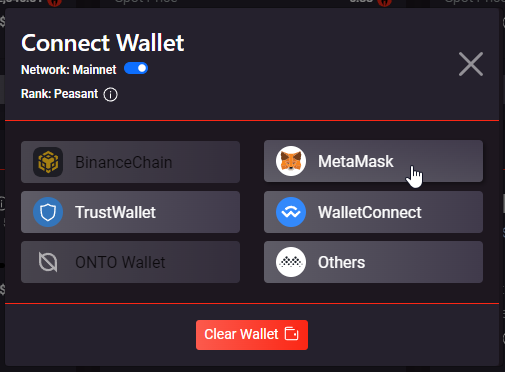
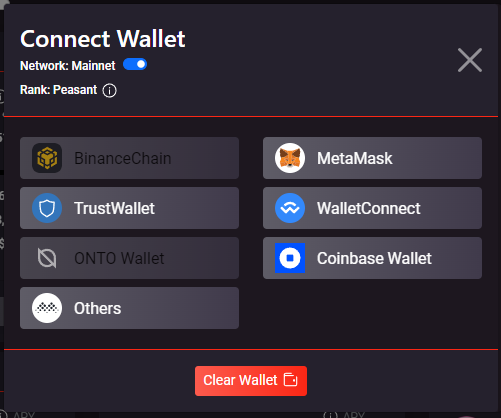
Update wallet select image + spelling
- Updated wallet select image with coinbase option
- Skim-fixed some spelling on each page

diff --git a/docs/dao.md b/docs/dao.md
@@ -18,7 +18,7 @@ The Spartan DAO can do _ALOT._ Its definitely the most expansive on-chain DAO ma
 
 Anyone can create a DAO proposal at any time, as long as no other DAO proposal is currently active. The proposer simply has to visit the DAO and click a few buttons to select their proposal type and parameters. They will then have to confirm a transaction to initialise the proposal on-chain.
 
-Some gas and a 'new proposal fee' will require payment by the proposer. This fee doesn't go to any middleman, its intention is not rent-seeking, it goes to the reserve which is where all non-owned SPARTA sits waiting to be released via incentives to good peers in the ecosystem. The main reason for this fee is to help resist spamming / greifing and also to ensure the Spartan is sure about this proposal before confirming it. All proposers should seek general consensus from the community on a proposal _prior_ to creating the proposal on-chain, otherwise they will likely have trouble reaching consensus on-chain within the required time period.
+Some gas and a 'new proposal fee' will require payment by the proposer. This fee doesn't go to any middleman, its intention is not rent-seeking, it goes to the reserve which is where all non-owned SPARTA sits waiting to be released via incentives to good peers in the ecosystem. The main reason for this fee is to help resist spamming / griefing and also to ensure the Spartan is sure about this proposal before confirming it. All proposers should seek general consensus from the community on a proposal _prior_ to creating the proposal on-chain, otherwise they will likely have trouble reaching consensus on-chain within the required time period.
 
 Some more info on the different proposal types in the next section:
 
@@ -40,7 +40,7 @@ Realising the premium of a pool involves working out how much the existing synth
 
 > ℹ. `ADD_CURATED_POOL` Requires: 66.66% Consensus
 
-Adding a pool to the 'Curated' list enables extra features and incentives ontop of the pool as explained in the [liquidity section](/liquidity-pools?id=curated-pools) of the documenation. As this is an important decision involving value extraction functions, a majority (66.66%) consensus is required for it to pass.
+Adding a pool to the 'Curated' list enables extra features and incentives on top of the pool as explained in the [liquidity section](/liquidity-pools?id=curated-pools) of the documenation. As this is an important decision involving value extraction functions, a majority (66.66%) consensus is required for it to pass.
 
 ### Remove Pool from Curated
 
@@ -60,7 +60,7 @@ Here we can regulate the claim percentage of the Reserve that the SynthVault can
 
 Here we can regulate the claim percentage of the Reserve that the DaoVault can begin 'harvest' calculations off. If increased; the harvest rewards will be larger. If decreased they will be lower. This proposal has a hard-coded max input of 1500 basis points and a minimum of 0 basis points (which would effectively turn off harvest rewards)
 
-### Change DAO Proposal Cooloff
+### Change DAO Proposal Cool off
 
 > ℹ. `COOL_OFF` Requires: 50% Consensus
 
@@ -78,7 +78,7 @@ Whilst the contributors have always remained active, the community may decide th
 
 The community can vote through a grant which would allow financial incentives and reward to those involved with any new developments that the community may call for.
 
-This proposal-type has already been testing in the wild with V2 to provide a small grant for marketing purposes thru the last 2021 -> early 2022 months, funding a number of partnerships and opportunities that were preiously un-obtainable due to the 'no treasury' aspect of the project.
+This proposal-type has already been testing in the wild with V2 to provide a small grant for marketing purposes thru the last 2021 -> early 2022 months, funding a number of partnerships and opportunities that were previously un-obtainable due to the 'no treasury' aspect of the project.
 
 As this is an important decision involving value extraction functions, a majority (66.66%) consensus is required for it to pass.
 
@@ -94,13 +94,13 @@ A contract change will allow the contributors to be able to implement changes as
 
 > ℹ. `ROUTER` Requires: 66.66% Consensus
 
-Another contract change proposal which has to be included to ensure that Spartan Protocol is as future proof as possible. The Router contract is likely to be upgraded many times throughout the years, whether it is to cut out unused features, make existing functions more efficent (save gas) or add new features.
+Another contract change proposal which has to be included to ensure that Spartan Protocol is as future proof as possible. The Router contract is likely to be upgraded many times throughout the years, whether it is to cut out unused features, make existing functions more efficient (save gas) or add new features.
 
 ### Upgrade UTILS Contract
 
 > ℹ. `UTILS` Requires: 66.66% Consensus
 
-When V2 launched, a new feeBurn deflationary feature was implemented on every transfer of the SPARTA token. This Utils contract was designed with the intention of making it possible to disable or change that feeBurn, which is exactly what happenned in late November 2021, sending us into the next phase of SPARTA token burns where ~37% of the total supply was burned permanently out of the supply to the 0x0dead address! It is unlikely this contract will need to be changed again in the future as it mostly houses 'helper' functions, but nice to know we always can!
+When V2 launched, a new feeBurn deflationary feature was implemented on every transfer of the SPARTA token. This Utils contract was designed with the intention of making it possible to disable or change that feeBurn, which is exactly what happened in late November 2021, sending us into the next phase of SPARTA token burns where ~37% of the total supply was burned permanently out of the supply to the 0x0dead address! It is unlikely this contract will need to be changed again in the future as it mostly houses 'helper' functions, but nice to know we always can!
 
 ### Upgrade RESERVE Contract
 
@@ -112,7 +112,7 @@ The reserve contract is where the emissions are sent before being distributed to
 
 ### Bond-related Proposals (Deprecated)
 
-With the token distribution phase of the project coming to a close, alot of Bond-related proposals are no longer relevant, but live on in the DAO's proposal-history page in the DApp. These Bond proposals inluded:
+With the token distribution phase of the project coming to a close, a lot of Bond-related proposals are no longer relevant, but live on in the DAO's proposal-history page in the DApp. These Bond proposals included:
 
 - New Bond Allocation: Release a 2M SPARTA allocation available for Bonding.
 - List a Bond Asset: The Bond program was only enabled on limited assets as decided by the DAO

diff --git a/docs/staking.md b/docs/staking.md
@@ -1,12 +1,12 @@
 ## Staking
 
-Everything discussed so far might seem quite technical and different to what you consider to be DeFi. That's because _it is_ different to what most consider to be DeFi. For DeFi projects to be sustainable and last more than months or years, it has to be more than just pumping some inflationary token out to people as an incentives without those incentives actually helping bootstrap or fuel some sort of sustainable revenue. Often the approach is just for users to lock assets into a contract that does not even utilize those assets to generate any revenue. Removing tokens from the ciurculating supply is great, but it does nothing to create a sustainable, long term path forward for the protocol or any individuals.
+Everything discussed so far might seem quite technical and different to what you consider to be DeFi. That's because _it is_ different to what most consider to be DeFi. For DeFi projects to be sustainable and last more than months or years, it has to be more than just pumping some inflationary token out to people as an incentives without those incentives actually helping bootstrap or fuel some sort of sustainable revenue. Often the approach is just for users to lock assets into a contract that does not even utilize those assets to generate any revenue. Removing tokens from the circulating supply is great, but it does nothing to create a sustainable, long term path forward for the protocol or any individuals.
 
 So it should now be clear that is why it was important to discuss those revenue sources first (see [liquidity](/liquidity-pools?id=revenue-potential), [swapping](/swap?id=swapping-trading-assets) and [Synths](/synths?id=spartan-synthetic-yield-tokens)) to show you that Spartan Protocol is here for the long term, working on sustainable ways to have the pools incentivise themselves. Having said that, it is also important to bootstrap liquidity in the growth stages in a controlled and non-degen manner. That is where 'Staking' comes in. The Reserve contract holds a bunch of not-yet-circulating SPARTA and controls their distribution to pools and Spartans by the Protocol's incentive functions. By locking up staking-enabled assets within the protocol's vaults, you will be able to earn extra yield and be incentivized further to stay in the pools.
 
 ### Why Stake?
 
-Staking usually involves a user locking up a layer-one asset such as BNB or SPARTA into a smart contract to temporarily remove them from the circulating supply. The problem with this is it doesn't utlize those assets to generate revenue (unsustainable; dependent on inflation) nor does it really provide the protocol or pools with any tangible advantages. With Spartan Protocol's DeFi contracts, only the second-layer assets are able to be staked for yield or governance weight. This means that for anyone to extract incentives from the protocol, they have to show their commitment and provide utility to the ecosystem first.
+Staking usually involves a user locking up a layer-one asset such as BNB or SPARTA into a smart contract to temporarily remove them from the circulating supply. The problem with this is it doesn't utilize those assets to generate revenue (unsustainable; dependent on inflation) nor does it really provide the protocol or pools with any tangible advantages. With Spartan Protocol's DeFi contracts, only the second-layer assets are able to be staked for yield or governance weight. This means that for anyone to extract incentives from the protocol, they have to show their commitment and provide utility to the ecosystem first.
 
 ---
 
@@ -18,11 +18,11 @@ Spartans have the option to stake [Curated](/liquidity-pools?id=curated-pools) L
 
 ### SynthVault Staking
 
-By staking your Synths in the SynthVault (this happens by default when you forge a Synth) you are exposed to compounding yield in the form of the same Synth (ie. BNBs) by default. If the Synth being harvested is capped however, you will receive SPARTA to your wallet instead.
+By staking your Synths in the SynthVault (this happens by default when you forge a Synth) you are exposed to compounding yield in the form of the same Synth (i.e. BNBs) by default. If the Synth being harvested is capped however, you will receive SPARTA to your wallet instead.
 
 ### What is the BondVault?
 
-The BondVault holds the time-locked LP tokens of Spartans who participated in the Bond token distribution program. If you are one of those users, your position/s will show up here and you will be able to claim your unlocked LP tokens to your wallet which are then free for you to do with as you please (Stake in DaoVault, remove liquitity etc)
+The BondVault holds the time-locked LP tokens of Spartans who participated in the Bond token distribution program. If you are one of those users, your position/s will show up here and you will be able to claim your unlocked LP tokens to your wallet which are then free for you to do with as you please (Stake in DaoVault, remove liquidity etc)
 
 The Bond program was retired when the SPARTA token distribution phase was ended and remaining distribution (~37% of the supply at the time) was burned to the 0x0dead address permanently.
 

diff --git a/docs/liquidity-pools.md b/docs/liquidity-pools.md
@@ -18,7 +18,7 @@ This presents a 'risk' of course, for instance, the number of units you put in i
 
 ### Curated Pools
 
-Spartan Protocol pools have a special status reserved for the most active pools called 'Curated'. The community DAO decides which pools are added or removed from the Curated list using the on-chain DAO functionality. If a pool is Curated, it is enabled for a range of extra features and incentives. Curated LP tokens earn extra 'Dividends' ontop of the usual revenue and are able to also be staked in the DaoVault for extra yield and governance weight in proposals. For a Synth to be deployed/created, it must use an underlying Curated pool.
+Spartan Protocol pools have a special status reserved for the most active pools called 'Curated'. The community DAO decides which pools are added or removed from the Curated list using the on-chain DAO functionality. If a pool is Curated, it is enabled for a range of extra features and incentives. Curated LP tokens earn extra 'Dividends' on top of the usual revenue and are able to also be staked in the DaoVault for extra yield and governance weight in proposals. For a Synth to be deployed/created, it must use an underlying Curated pool.
 
 ### Dividends
 
@@ -30,7 +30,7 @@ Most important of the Curated points to discuss here is 'Dividends', which are i
 
 ### Listing / Creating a Pool
 
-Another way Spartan Protocol hands over control to its users is through its open listing policy. Literally anyone is free to permissionlessly list any standard BEP20 token any time they like by clicking a few buttons and providing the initial liquidity. You don't need permission from any devs or the token's project team or CZ 😂 if you want a pool, you are free to go ahead and create it.
+Another way Spartan Protocol hands over control to its users is through its open listing policy. Literally anyone is free to list any standard BEP20 token any time they like without needing permission from anyone by clicking a few buttons and providing the initial liquidity. You don't need to contact any devs or the token's project team or CZ 😂 if you want a pool, you are free to go ahead and create it.
 
 Think and plan carefully before doing so though, as a general rule, pools become an efficient swap option at a minimum of ~$100,000 in liquidity. Ideally, all pools should aim to build up more than $200,000 in liquidity so that they can have low swap fees and become a viable best-route for aggregators, therefore earning sustainable revenue to grow deeper in a feedback loop.
 
@@ -44,7 +44,7 @@ Think and plan carefully before doing so though, as a general rule, pools become
 
 ### Initializing Pools
 
-When a fresh new pool is deployed / created by someone in the community, it has a special status called 'Initializing' applied to it for 7 days. During this short period, users can add liquidity and swap permissionlessly just like any other normal pool. However, **no-one can remove liquidity** until the pool reaches the end of its 'Initializing' phase.
+When a fresh new pool is deployed / created by someone in the community, it has a special status called 'Initializing' applied to it for 7 days. During this short period, users can add liquidity and swap just like any other normal pool. However, **no-one can remove liquidity** until the pool reaches the end of its 'Initializing' phase.
 
 As soon as 7 days has passed since the pool was deployed, it instantly and automatically becomes a proper, normal, mature pool without the 'Initializing' limitations.
 
@@ -90,7 +90,7 @@ As explained earlier, providing liquidity is very different from staking in a yi
 
 Here is a general overview of how the DApp calculates the history-based APY estimations for providing liquidity to a pool:
 
-- **Revenue** = Last 30 Days (Slip fees, divis etc) in SPARTA units value
+- **Revenue** = Last 30 Days (Slip fees, dividends etc) in SPARTA units value
 - **Depth** = Current SPARTA in the pool \* 2 (The TVL in SPARTA value)
 
 With those two variables it is pretty simple:
@@ -107,7 +107,7 @@ Remember, we should never look at the APY displayed in the DApp and stop there, 
 ## Guides
 
 - [Create / List Pool _Guide Coming Soon_](/liquidity-pools?id=guides)
-- [Analyze Pools](/guides/liquidity/analyze.md)
+- [Analyse Pools](/guides/liquidity/analyze.md)
 - [Add Liquidity (Both)](/guides/liquidity/add-both.md)
 - [Add Liquidity (Single)](/guides/liquidity/add-single.md)
 - [Remove Liquidity (Both)](/guides/liquidity/remove-both.md)

diff --git a/docs/introduction.md b/docs/introduction.md
@@ -33,7 +33,7 @@ Spartan Protocol combined some new and fresh ideas with many varied and popular 
 
 ##### Liquidity Pools
 
-Spartans can provide liquidity to the pools to earn the revenue generated by the pool along with any extra dividends and incentives. Assets provided as liquidity will fluctuate with the prices of the underlying assets in the pools and you may end up with less of one asset, but more of the other as your position is balanced resulting in something similar to an automated DCA-in, DCA-out trading strategy with revenue yield ontop.
+Spartans can provide liquidity to the pools to earn the revenue generated by the pool along with any extra dividends and incentives. Assets provided as liquidity will fluctuate with the prices of the underlying assets in the pools and you may end up with less of one asset, but more of the other as your position is balanced resulting in something similar to an automated DCA-in, DCA-out trading strategy with revenue yield on top.
 
 ##### Swap / Trade
 
@@ -63,7 +63,7 @@ The SPARTA token is essential to the protocol. It acts as the settlement asset f
 
 ##### Token Distribution
 
-One of the biggest statements of Spartan Protocol is its fair launch. The community who formed the idea of the protocol was sick of the scams, rug-pulls and general degen, scummy greedy behaviour going on in the DeFi world. So they created a plan to launch the token **without all the bizzare rent seeking aspects found all over the DeFi world.** Flip the whole thing on its head, making most of the common scam behaviour not even possible with:
+One of the biggest statements of Spartan Protocol is its fair launch. The community who formed the idea of the protocol was sick of the scams, rug-pulls and general degen, scummy greedy behaviour going on in the DeFi world. So they created a plan to launch the token **without all the bizarre rent seeking aspects found all over the DeFi world.** Flip the whole thing on its head, making most of the common scam behaviour not even possible with:
 
 - No Airdrops
 - No token sale
@@ -114,4 +114,4 @@ Slip-based fees also have the lovely side-effect of acting as a security layer t
 
 The relatively tiny fees for small trades, of which are what the majority of users will trade, means that Spartan Pools become a leader on the various aggregators that have sprung up in DeFi. The huge benefit of this is that Spartan Protocol can be extremely competitive across BSC, and generate vast amounts of swap revenue without swappers ever having to visit any Spartan DApp directly.
 
-100% of fees never leave the pool they are generated in and attributed directly to the existing liquidity providers, creating circular incentives to keep the pools trending deeper. Noone is a middle-man to this revenue, the project was always built for the community rather than an individual's personal profit, and that remains the #1 goal.
+100% of fees never leave the pool they are generated in and attributed directly to the existing liquidity providers, creating circular incentives to keep the pools trending deeper. No-one is a middle-man to this revenue, the project was always built for the community rather than an individual's personal profit, and that remains the #1 goal.

diff --git a/docs/getting-started.md b/docs/getting-started.md
@@ -1,6 +1,6 @@
 ## Community
 
-Before you begin, make sure you confirm you are in the **correct community channels!** There are alot of clever scams and imposter channels/accounts out there, be careful Spartans!
+Before you begin, make sure you confirm you are in the **correct community channels!** There are a lot of clever scams and imposter channels/accounts out there, be careful Spartans!
 
 **Telegram:** https://t.me/SpartanProtocolOrg  
 **Twitter:** https://twitter.com/SpartanProtocol  
@@ -12,11 +12,11 @@ Before you begin, make sure you confirm you are in the **correct community chann
 
 ## Wallets
 
-Spartan Protocol is built ontop of BSC which is an EVM, meaning most common web3 tools from the Ethereum community are also compatible with the ecosystem by default.
+Spartan Protocol is built on top of BSC which is an EVM, meaning most common web3 tools from the Ethereum community are also compatible with the ecosystem by default.
 
 ### Choose Wallet
 
-Choosing a wallet can be a bit subjective based on your preference and devices. If you already have a web3 wallet you use reguarly, it is advised to stick to what you already know. However if you are starting out fresh and need some guidance from these very first steps, the below should help you decide based on the device you use and other features that may be important to you.
+Choosing a wallet can be a bit subjective based on your preference and devices. If you already have a web3 wallet you use regularly, it is advised to stick to what you already know. However if you are starting out fresh and need some guidance from these very first steps, the below should help you decide based on the device you use and other features that may be important to you.
 
 ##### Mobile wallets:
 
@@ -127,14 +127,14 @@ Now let us do a breakdown of the LPs tab, keep in mind the Green & Purple sectio
   - Wallet: The LP tokens are currently in your wallet
   - Staked: The LP tokens are staked in the DaoVault
   - Bonded: The LP tokens are currently locked in a Bond position
-- The token's name (ie. BNBp)
+- The token's name (i.e. BNBp)
   - The 'p' after the BNB stands for 'pool' (LP tokens)
 - Underneath those we have the 'units' of the LP tokens
 
 **Green (Value of tokens):**
 
 - This section (by default) shows the 'redemption value' of the LP tokens
-- What does that mean? Well, if you were to redeem those LP tokens and remove your liquidity right now, the listed asset unit qtys are the estimate of what you would receive
+- What does that mean? Well, if you were to redeem those LP tokens and remove your liquidity right now, the listed asset units are the estimate of what you would receive
 - If you click this area it flips over to $USD value of the bundle of LP tokens
 
 **Blue (Quick-copy button):**

diff --git a/docs/positions.md b/docs/positions.md
@@ -1,10 +1,10 @@
 ## Positions
 
-Assessing whether you are 'up' or 'down' since entering a DeFi position is very helpful, everyone wants to do it. Problem is, it's extremely difficult to do and there is *alot* of subjective angles and nuances to cover. Fortunately, the Spartan community worked tirelessly to provide a handy tool to do exactly that whilst covering as many of the nuances/scopes as possible.
+Assessing whether you are 'up' or 'down' since entering a DeFi position is very helpful, everyone wants to do it. Problem is, it's extremely difficult to do and there is *a lot* of subjective angles and nuances to cover. Fortunately, the Spartan community worked tirelessly to provide a handy tool to do exactly that whilst covering as many of the nuances/scopes as possible.
 
 ### Liquidity Position
 
-When providing liquidity, there are alot of variables at play that affect your position or your scope of how to assess the positions. For instance:
+When providing liquidity, there are a lot of variables at play that affect your position or your scope of how to assess the positions. For instance:
 - What assets did you provide as liquidity (SPARTA-only? BNB-only? Half of each?)
 - What assets *would you have held* if you did *not* provide liquidity (SPARTA or BNB? Or half of each? Or some other ratio? Or another asset entirely? Maybe a stablecoin?)
 - What asset did/will you exit to when you remove liquidity (SPARTA-only? BNB-only? Half of each? Swap it to an entirely different asset?)
@@ -16,7 +16,7 @@ Unfortunately it is impossible to cover every single scope and nuance, however t
 
 ### Synth Position
 
-Forging Synth positions has pretty much all the same nuances as the above but are inherantly harder to assess because it is mostly measured in SPARTA (at the time) terms. We can't guess what the asset is that you used to forge the synth nor can we give it a historical value. But again, the contributors worked hard to cover as many scopes as possible to give you the tools to assess your Synthetic asset positions.
+Forging Synth positions has pretty much all the same nuances as the above but are inherently harder to assess because it is mostly measured in SPARTA (at the time) terms. We can't guess what the asset is that you used to forge the synth nor can we give it a historical value. But again, the contributors worked hard to cover as many scopes as possible to give you the tools to assess your Synthetic asset positions.
 
 ---
 

diff --git a/docs/synths.md b/docs/synths.md
@@ -4,7 +4,7 @@ As the Spartan Protocol liquidity pools growth in depth, they are able to facili
 
 ### Why Forge a Synth?
 
-"But if it is just like holding the underlying asset, why bother doing it?" - Holding a Synth asset provides extra options and utility in the Spartan ecosystem. For instance, at the moment, when you forge a Synth, it is sent directly to the SynthVault, where it accrues compounding yield constantly. A major advantage here of BNBs over BNB for insstance, is that it is earning more BNBs or SPARTA every day, whereas holding BNB in your wallet does not accrue any yield.
+"But if it is just like holding the underlying asset, why bother doing it?" - Holding a Synth asset provides extra options and utility in the Spartan ecosystem. For instance, at the moment, when you forge a Synth, it is sent directly to the SynthVault, where it accrues compounding yield constantly. A major advantage here of BNBs over BNB for instance, is that it is earning more BNBs or SPARTA every day, whereas holding BNB in your wallet does not accrue any yield.
 
 ### What About Impermanent Loss?
 
@@ -16,7 +16,7 @@ As discussed in the 'liquidity' section, providing liquidity gives you impermane
 
 ### Listing / Creating a Synth
 
-For a Synthetic asset to be listed / deployed, it must have a deep underlying pool and that pool must be [Curated](/liquidity-pools?id=curated-pools). If the conditions are met, literally anyone has the ability to click a few buttons and deploy the Synthetic asset token contract. Once again, no permissiion is required here, just go ahead and do it Spartan!
+For a Synthetic asset to be listed / deployed, it must have a deep underlying pool and that pool must be [Curated](/liquidity-pools?id=curated-pools). If the conditions are met, literally anyone has the ability to click a few buttons and deploy the Synthetic asset token contract. Once again, no permission is required here, just go ahead and do it Spartan!
 
 ### Forge Synths (Mint)
 

diff --git a/docs/upgrade.md b/docs/upgrade.md
@@ -2,7 +2,7 @@
 
 The SPARTAv1 token was deployed back when Binance Smart Chain was first launched onto mainnet in September 2020. SPARTAv1 was only obtained via a unique 'Fair Launch' token distribution called Proof-of-Burn. Just like what we see now, there was also a V1 protocol with liquidity pools that had SPARTAv1 in them. The pools were involved in an unfortunate exploit in May 2021 leading to discussions on how best to help the liquidity providers dubbed 'the FallenSpartans'. The community and active contributors landed on the idea of making a 1:1 bridge directly over to a new V2 token with a partial token allocation aside for the Spartans affected by the events in V1.
 
-This allowed the project to continue without any major friction or nasty 'snapshot -> airdrop' style recoveries that are a little too prevailant following events like these. Since then, a whole new protocol has been built which is what we see today (V2) which was run through a community-funded CodeArena audit.
+This allowed the project to continue without any major friction or nasty 'snapshot -> airdrop' style recoveries that are a little too prevalent following events like these. Since then, a whole new protocol has been built which is what we see today (V2) which was run through a community-funded CodeArena audit.
 
 The V1 token now has zero utility except that it can be swapped one-for-one for a V2 token (which now holds all the utility). There is no plan to close off this upgrade function, but if you hold V1 tokens you should upgrade ASAP, the V2 token is what you want.
 

diff --git a/docs/guides/liquidity/analyze.md b/docs/guides/liquidity/analyze.md
@@ -1,6 +1,6 @@
-## Analyzing a Liquidity Pool
+## Analysing a Liquidity Pool
 
-One of the first steps you should take before providing liquidity to a pool (after reading up on what 'providing liquidity' is of course) is to analyze the pool you are considering. The community has built tools for this which will hopefully help you assess whether a pool has shown a history of aligning with your long term goals.
+One of the first steps you should take before providing liquidity to a pool (after reading up on what 'providing liquidity' is of course) is to analyse the pool you are considering. The community has built tools for this which will hopefully help you assess whether a pool has shown a history of aligning with your long term goals.
 
 #### 1. Liquidity page in the DApp
 
@@ -78,7 +78,7 @@ This should not be considered 'all I have to do before providing liquidity'. It 
 
 Some people are happy to just blindly provide liquidity, others want to see an APY, others want to know how the APY is calculated, others want to see some of the raw data that goes into the APY, others want to see _all_ of the data, and so on.
 
-As Spartans we should strive to want to know what is going on behind the scenes, get our hands dirty, analyze the pools, progress to becoming a Chainalysis master-Spartan!
+As Spartans we should strive to want to know what is going on behind the scenes, get our hands dirty, analyse the pools, progress to becoming a Chainalysis master-Spartan!
 Don't trust; verify! Always!
 
 [<- Back to Liquidity Guides](/liquidity-pools?id=guides)

diff --git a/docs/guides/dao/manage-proposal.md b/docs/guides/dao/manage-proposal.md
@@ -50,7 +50,7 @@ For a proposal to have a chance at succeeding it should be discussed & reach som
 
 ![Proposal Inputs](/../../_media/guides/dao/proposal-inputs.png)
 
-**7.** You will then need to confirm that you know you are about to pay a 'new proposal' fee in SPARTA (noone can recover this fee even if you make a mistake, so be careful!)
+**7.** You will then need to confirm that you know you are about to pay a 'new proposal' fee in SPARTA (no-one can recover this fee even if you make a mistake, so be careful!)
 
 ![Proposal Fee](/../../_media/guides/dao/proposal-fee.png)
 
@@ -128,7 +128,7 @@ If the proposal has reached its required consensus / support from the DAO member
 
 #### **Finalise**
 
-If the proposal has been in the finalising stage for longer than the cool-off period and still has above Quorum consensus, the 'Finalise' button will be enabled and anyone can attempt to do the honors of finalising the proposal. To do so:
+If the proposal has been in the finalising stage for longer than the cool-off period and still has above Quorum consensus, the 'Finalise' button will be enabled and anyone can attempt to do the honours of finalising the proposal. To do so:
 
 1. Click the 'Finalise' button
 2. Confirm the transaction in your wallet (be aware this will cost you BNB gas)

diff --git a/docs/guides/liquidity/add-single.md b/docs/guides/liquidity/add-single.md
@@ -1,6 +1,6 @@
 ## Adding Liquidity Asymmetrically (Add Single)
 
-Before we begin here; it is important you do your research on AMMs, liquidity pools and providing liquidity. For now, you can start with the [information in our docs on our liquidity pools](/liquidity-pools.md). It is also recommended to assess a pool before providing liquidity, [read about how to analyze pools here](/guides/pools/analyze.md).
+Before we begin here; it is important you do your research on AMMs, liquidity pools and providing liquidity. For now, you can start with the [information in our docs on our liquidity pools](/liquidity-pools.md). It is also recommended to assess a pool before providing liquidity, [read about how to analyse pools here](/guides/pools/analyze.md).
 
 Also, make sure you have already created your wallet and connected it to the DApp. This guide assumes you have done the necessary steps to get setup including doing research on how these functions work, important to make sure you know what 'adding liquidity' is and how it affects you. It is not to be confused with what is generally regarded as 'staking', they are vastly different things.
 

diff --git a/docs/guides/liquidity/add-both.md b/docs/guides/liquidity/add-both.md
@@ -1,6 +1,6 @@
 ## Adding Liquidity Symmetrically (Add Both)
 
-Before we begin here; it is important you do your research on AMMs, liquidity pools and providing liquidity. For now, you can start with the [information in our docs on our liquidity pools](/liquidity-pools.md). It is also recommended to assess a pool before providing liquidity, [read about how to analyze pools here](/guides/pools/analyze.md).
+Before we begin here; it is important you do your research on AMMs, liquidity pools and providing liquidity. For now, you can start with the [information in our docs on our liquidity pools](/liquidity-pools.md). It is also recommended to assess a pool before providing liquidity, [read about how to analyse pools here](/guides/pools/analyze.md).
 
 Also, make sure you have already created your wallet and connected it to the DApp. This guide assumes you have done the necessary steps to get setup including doing research on how these functions work, important to make sure you know what 'adding liquidity' is and how it affects you. It is not to be confused with what is generally regarded as 'staking', they are vastly different things.
 
